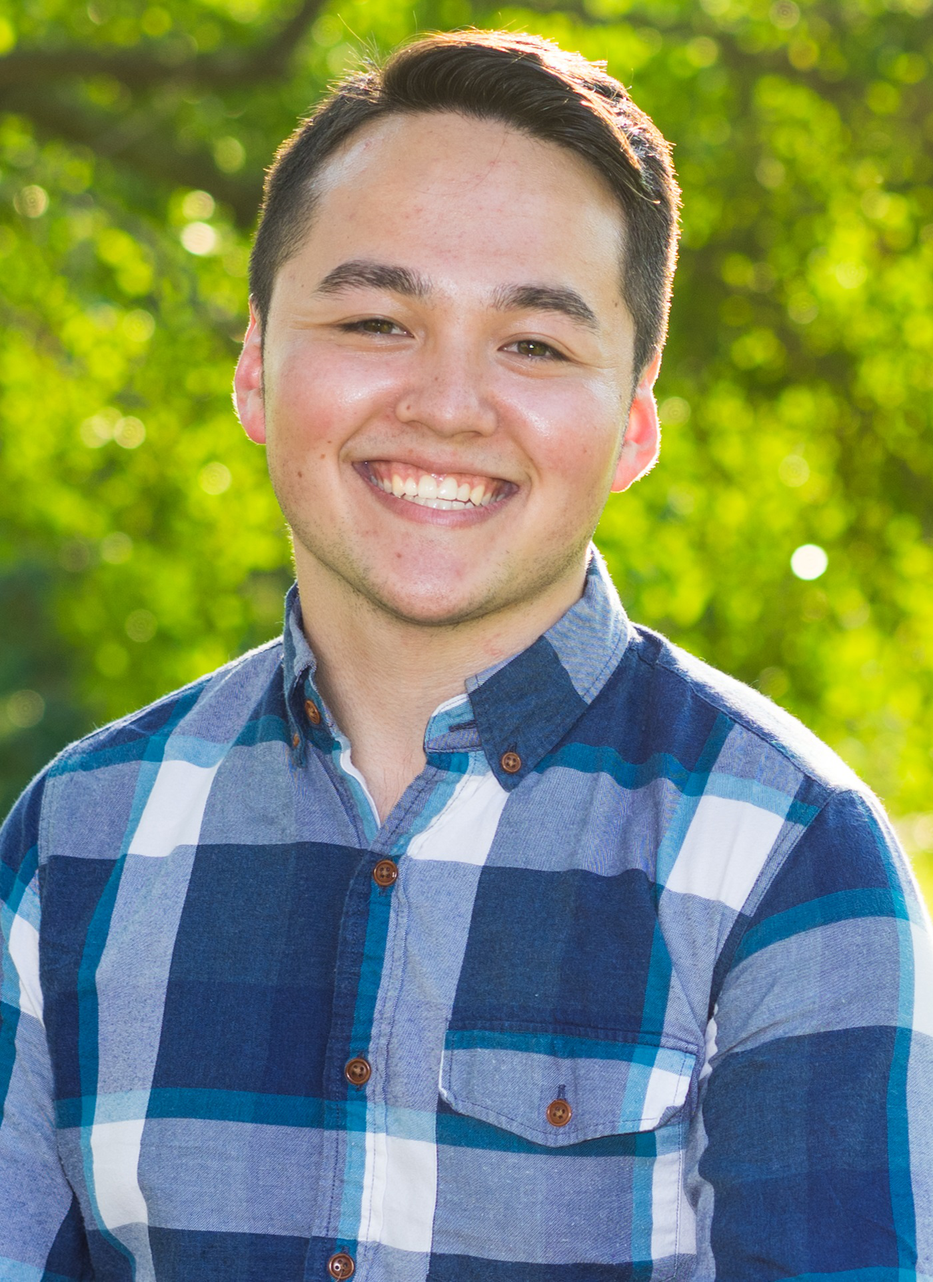
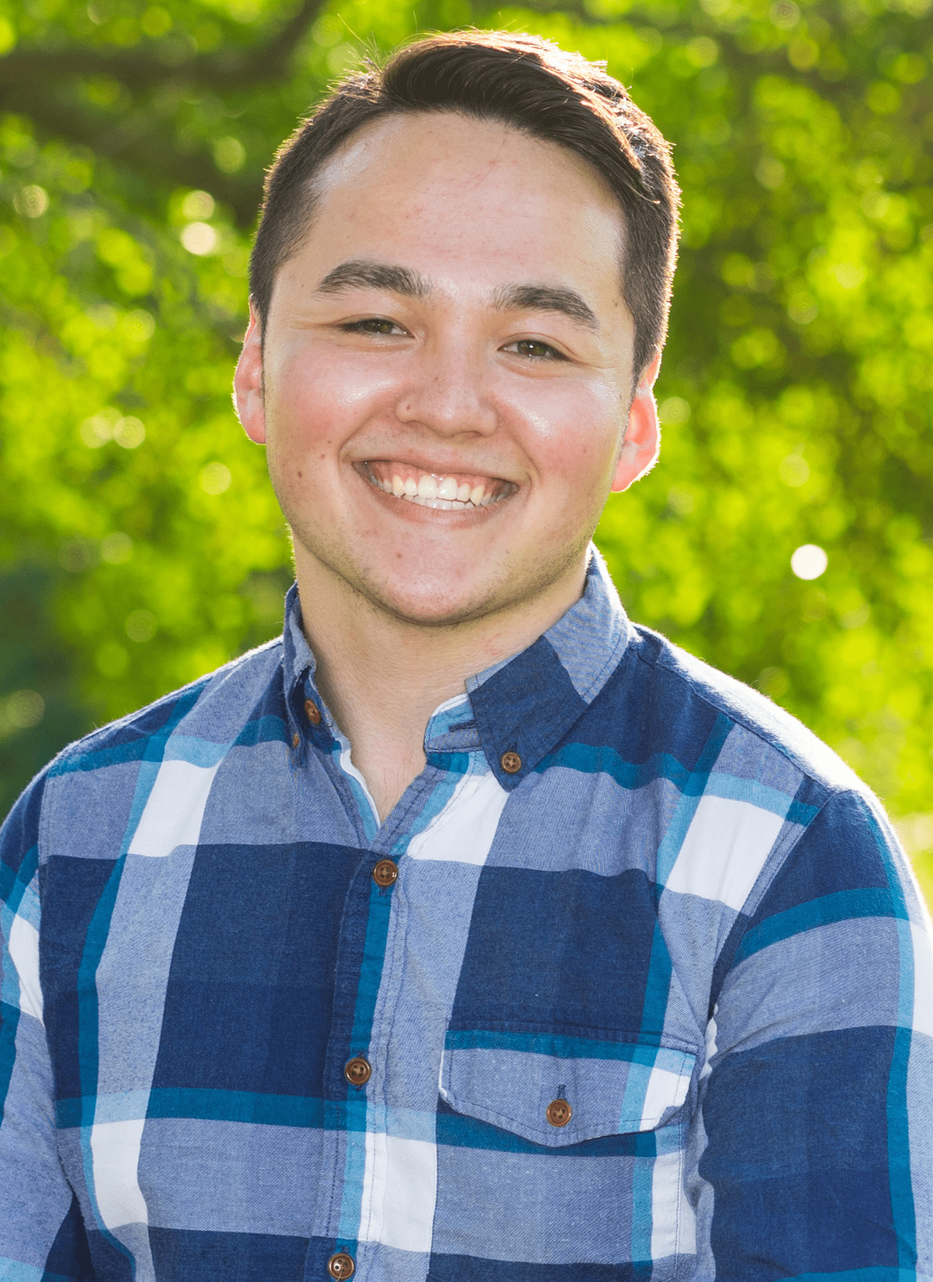
Compress png files

Changed region(s): [[0.0307, 0.5301, 0.0614, 0.5925], [0.9829, 0.6549, 1.0, 0.6861]]

diff --git a/culambdas/README.md b/culambdas/README.md
@@ -8,7 +8,7 @@ There are certain files you must change when you add a new class
 - members.json (Update big bros and little bros)
 - actives.json (Copy paste from members.json)
 - Update `allClasses` in constants.js
-- Add new class images to assets/classes and assets/members
+- Add new class images to assets/classes and assets/members (compress photos [here](https://compresspng.com/))
 - Update the state property `activeClass` in ActiveHouse.js and Roster.js to be the newest class
 - Run `npm run build` and `npm run deploy`
 
